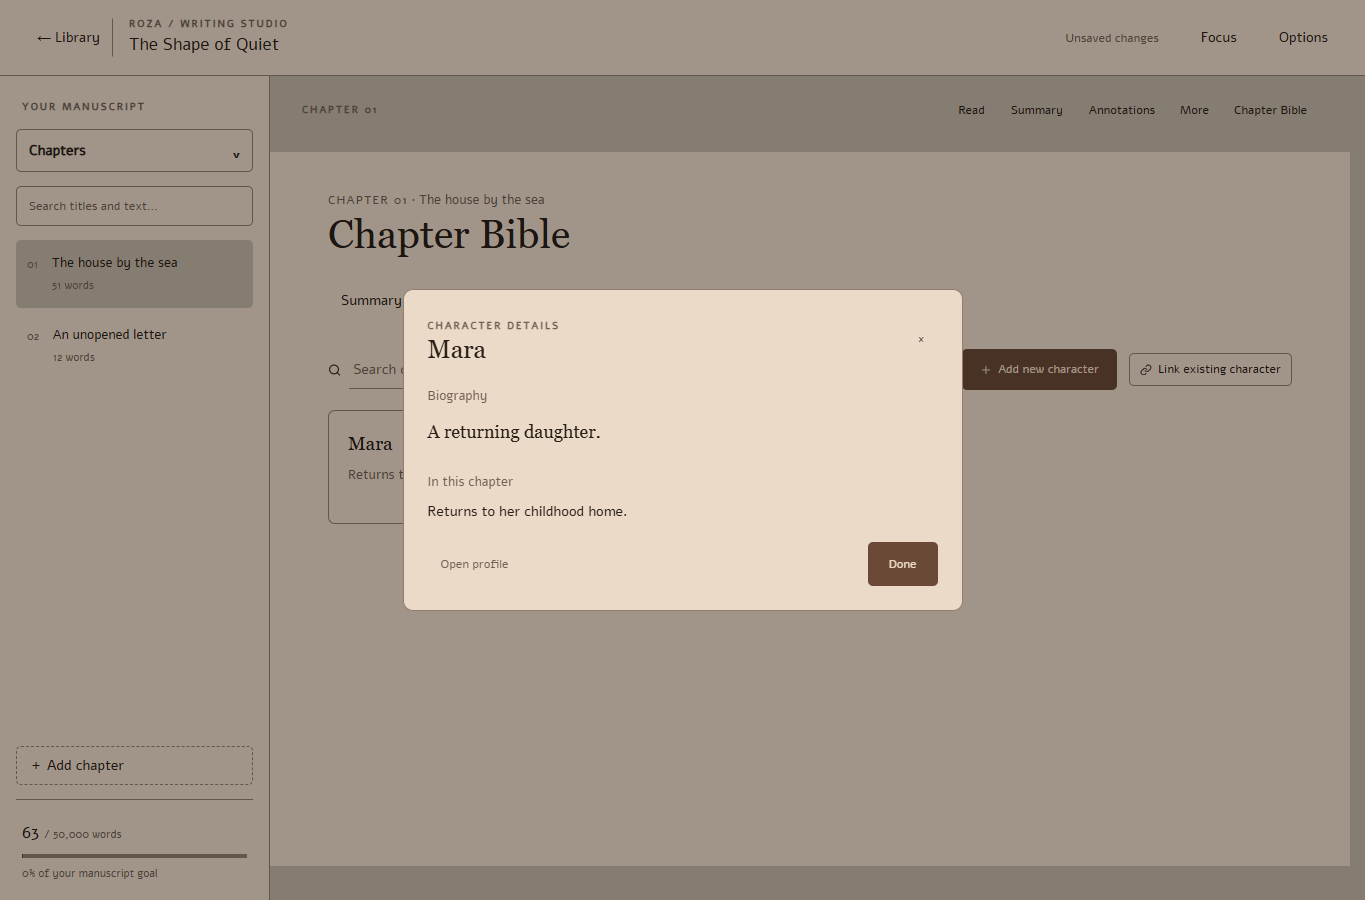
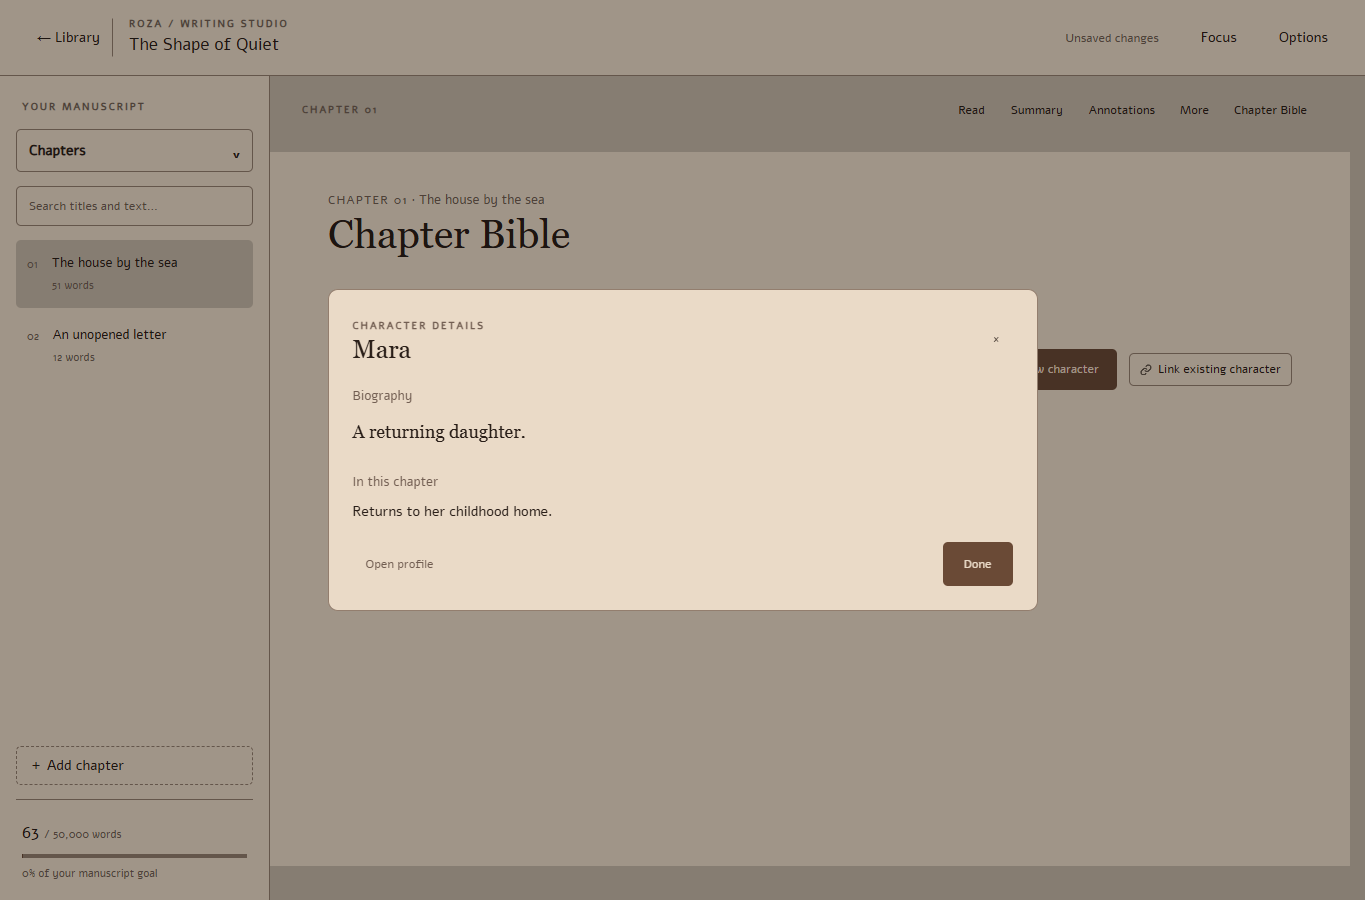
Replace duplicate entity name field with click-to-edit name

Changed region(s): [[0.2154, 0.3111, 0.4615, 0.6844], [0.6154, 0.3111, 0.7692, 0.6844]]

diff --git a/frontend/src/components/WritingStudio/ChapterElements.tsx b/frontend/src/components/WritingStudio/ChapterElements.tsx
@@ -377,6 +377,10 @@ function EntityDetailsDialog({
   onChapter: (id: string) => void;
 }) {
   const dialog = useRef<HTMLDialogElement>(null);
+  const [renaming, setRenaming] = useState(false);
+  const [nameDraft, setNameDraft] = useState(entity.name);
+  const cancelRename = useRef(false);
+  const nameButton = useRef<HTMLButtonElement>(null);
   const singular =
     kind === "characters"
       ? "character"
@@ -418,7 +422,50 @@ function EntityDetailsDialog({
               ? `EDIT ${singular.toUpperCase()}`
               : `${singular.toUpperCase()} DETAILS`}
           </span>
-          <h2 dir="auto">{entity.name}</h2>
+          {editing ? (
+            renaming ? (
+              <input
+                className="cp-entity-name-input"
+                autoFocus
+                dir="auto"
+                aria-label={singular + " name"}
+                value={nameDraft}
+                maxLength={500}
+                onChange={e => setNameDraft(e.target.value)}
+                onBlur={() => {
+                  if (!cancelRename.current && nameDraft.trim())
+                    onUpdate({ name: nameDraft.trim() });
+                  cancelRename.current = false;
+                  setRenaming(false);
+                }}
+                onKeyDown={e => {
+                  if (e.key === "Enter" || e.key === "Escape") {
+                    e.preventDefault();
+                    e.stopPropagation();
+                    cancelRename.current = e.key === "Escape";
+                    e.currentTarget.blur();
+                    requestAnimationFrame(() => nameButton.current?.focus());
+                  }
+                }}
+              />
+            ) : (
+              <button
+                ref={nameButton}
+                className="cp-entity-name"
+                dir="auto"
+                aria-label={"Rename " + singular}
+                disabled={disabled}
+                onClick={() => {
+                  setNameDraft(entity.name);
+                  setRenaming(true);
+                }}
+              >
+                {entity.name}
+              </button>
+            )
+          ) : (
+            <h2 dir="auto">{entity.name}</h2>
+          )}
         </div>
         <button aria-label="Close entity details" onClick={onClose}>
           ×
@@ -426,18 +473,6 @@ function EntityDetailsDialog({
       </header>
       {editing ? (
         <fieldset disabled={disabled}>
-          <label>
-            Name
-            <input
-              autoFocus
-              dir="auto"
-              value={entity.name}
-              maxLength={500}
-              onChange={e => {
-                if (e.target.value.trim()) onUpdate({ name: e.target.value });
-              }}
-            />
-          </label>
           <p className="ws-muted">
             {kind === "characters" ? "Biography" : "Description"} · shared
             across the book

diff --git a/frontend/src/components/WritingStudio/chapterPlanning.css b/frontend/src/components/WritingStudio/chapterPlanning.css
@@ -628,3 +628,28 @@ dialog.ws.cp-entity-dialog {
   align-items: center;
   margin-top: 20px;
 }
+.cp-entity-dialog header > div {
+  min-width: 0;
+  flex: 1;
+}
+.ws .cp-entity-name {
+  display: block;
+  padding: 0;
+  margin: 0;
+  font:
+    400 25px Georgia,
+    serif;
+  text-align: start;
+  overflow-wrap: anywhere;
+}
+.ws .cp-entity-name:hover {
+  background: transparent;
+}
+.cp-entity-dialog .cp-entity-name-input {
+  width: 100%;
+  font:
+    400 25px Georgia,
+    serif;
+  margin-top: 4px;
+  padding: 4px 6px;
+}
